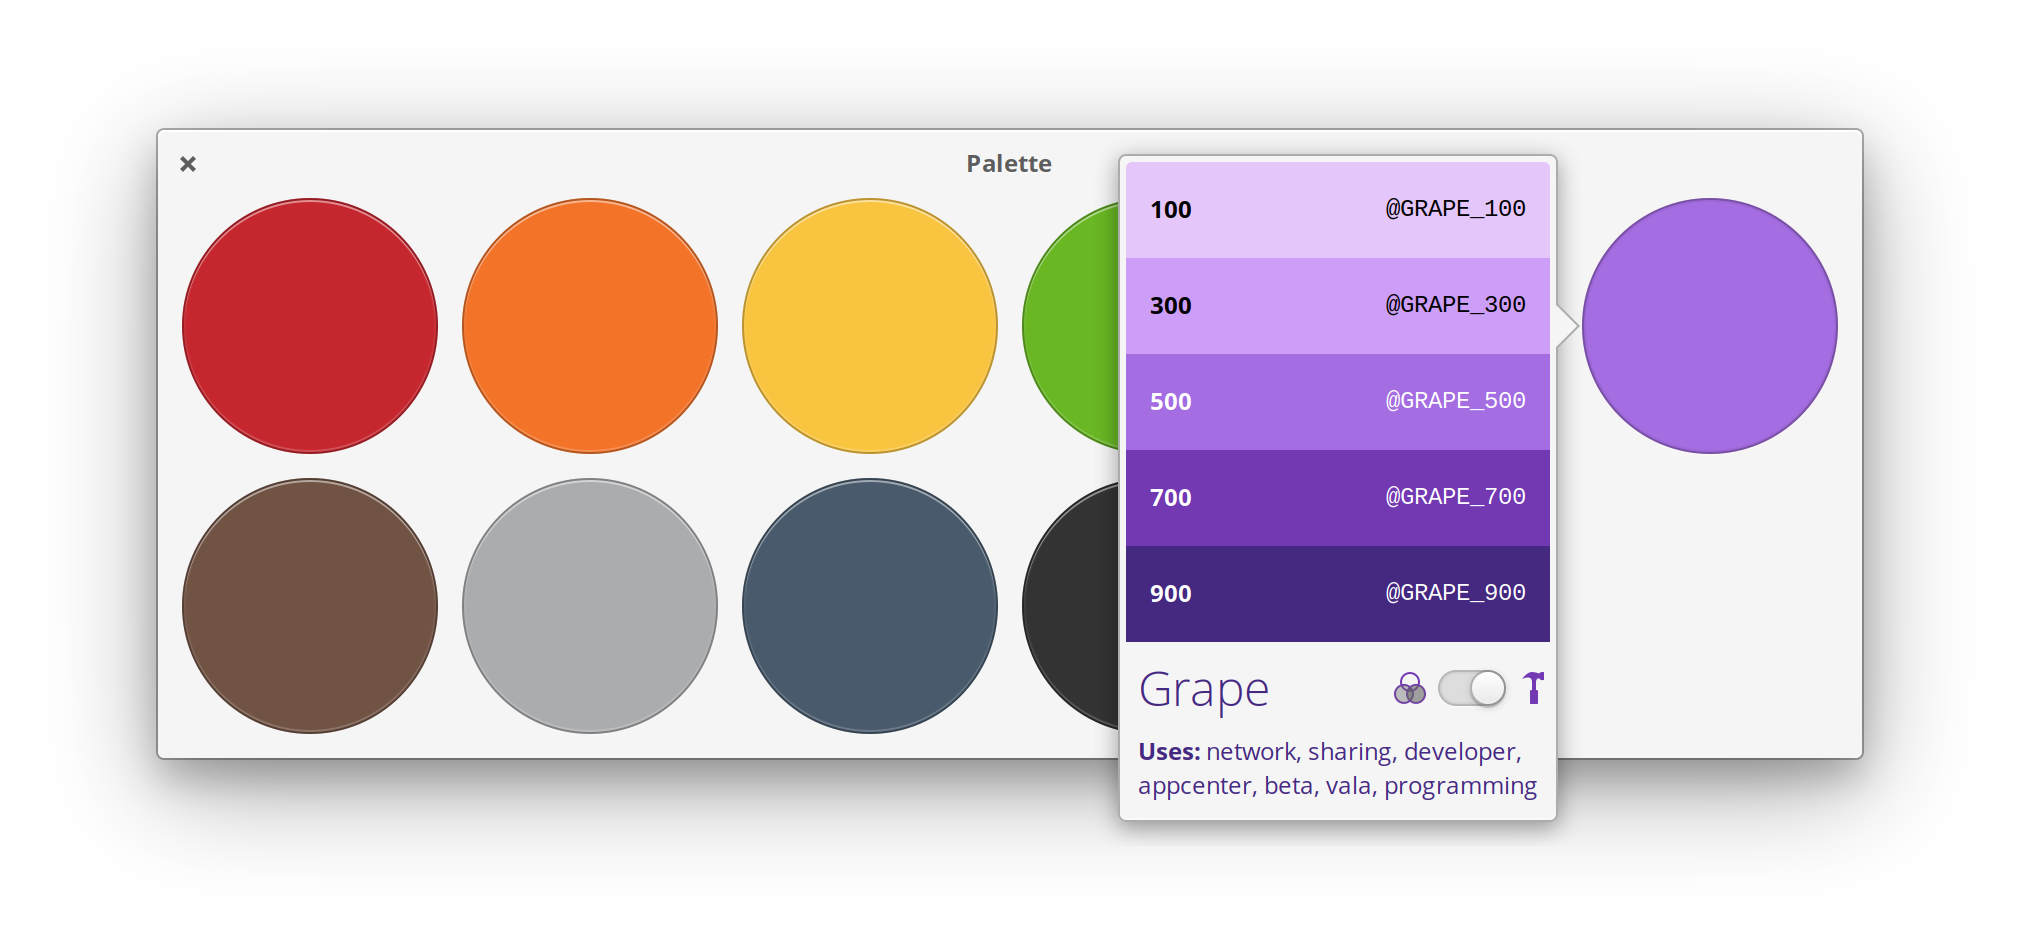
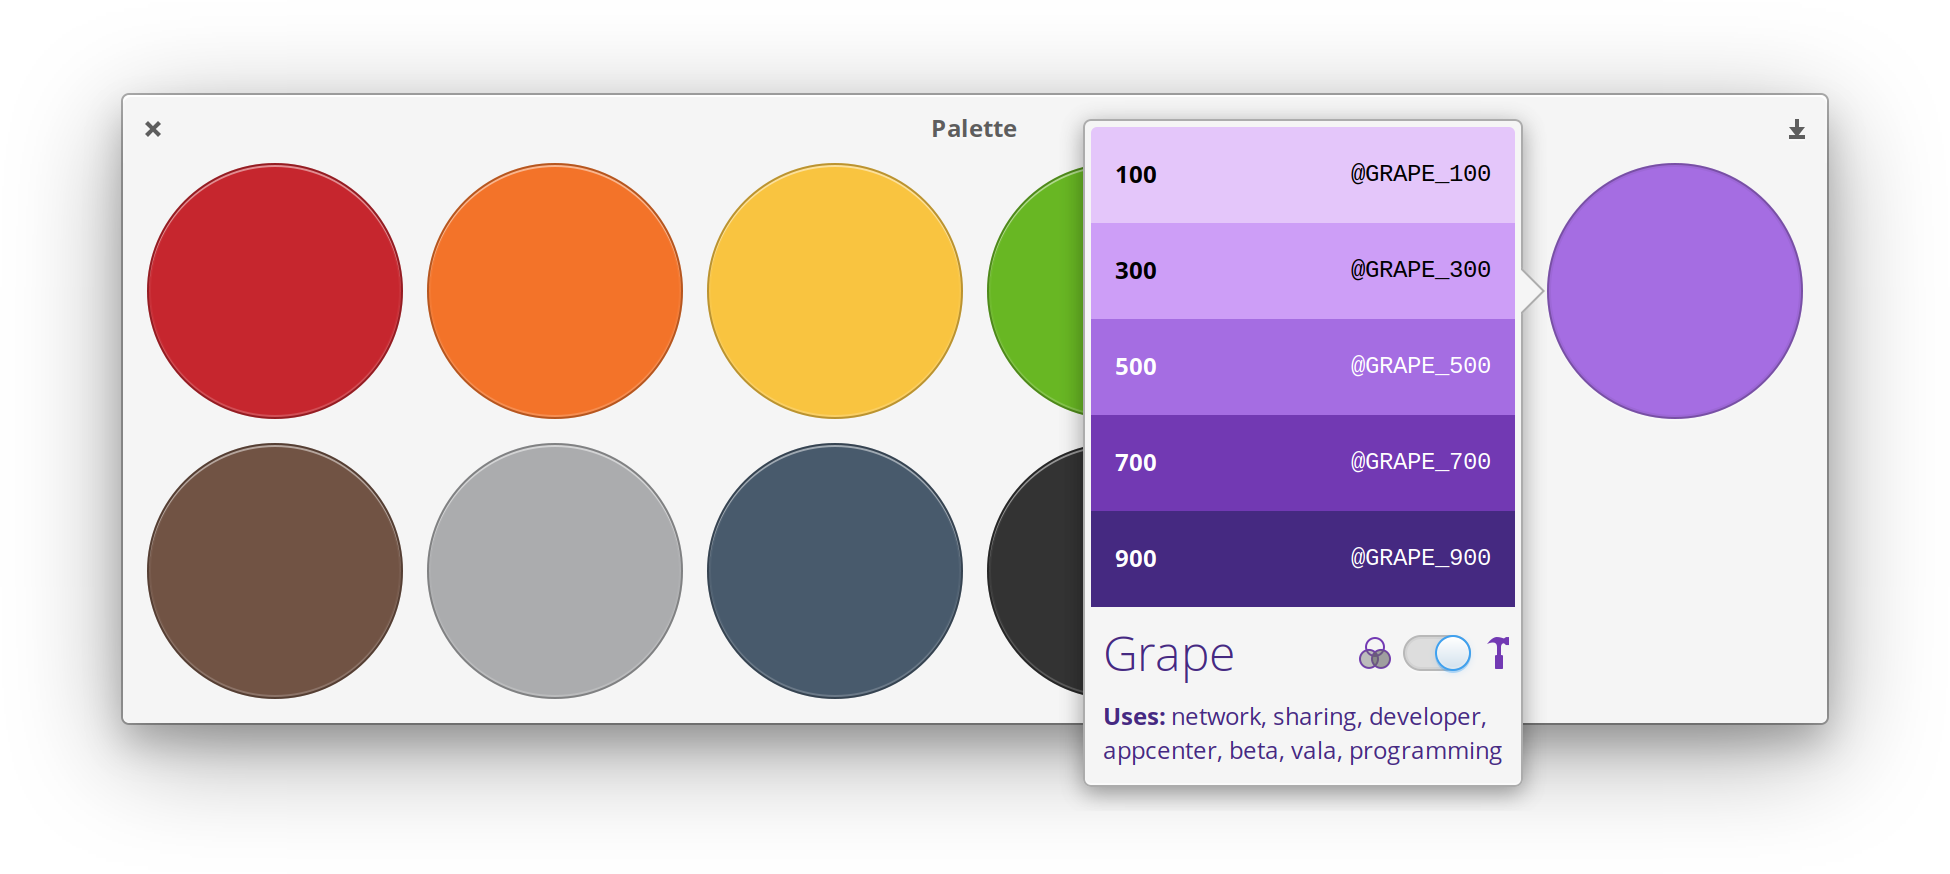
Mini mode (#32)
* Add schema

* Fix schema

* Initial mini UI

* Hide instead of close

* Move sizing to realize, use display height

* Save small window size

* Restore correct mode

* Clean up Application.vala

* Remove critical debuggers

* Skip taskbar if opened programatically

* At least don't clip in mini mode

* Cleanup

* Add mini styling

* Prep 3.0 release

diff --git a/data/Application.css b/data/Application.css
@@ -54,3 +54,17 @@ image {
   color: inherit;
 }
 
+.mini,
+.mini .titlebar {
+  background: rgba(255, 255, 255, 0.85);
+}
+
+.mini:backdrop,
+.mini:backdrop .titlebar {
+  background: rgba(255, 255, 255, 0.70);
+}
+
+.mini .titlebar button {
+  color: #333;
+}
+
